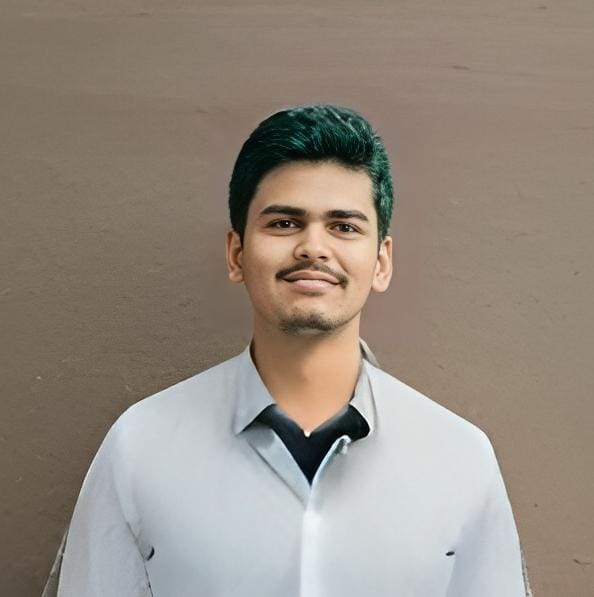
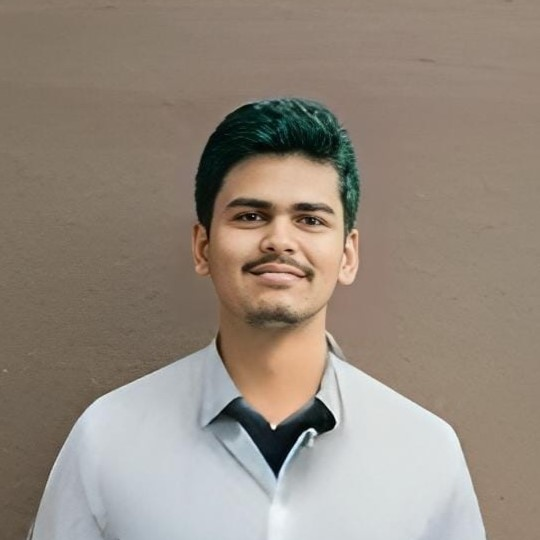
profile adjust

Changed region(s): [[0.0296, 0.1778, 0.8593, 1.0], [0.7407, 0.8593, 0.8296, 1.0], [0.8593, 0.8593, 0.9185, 1.0]]

diff --git a/index.html b/index.html
@@ -28,7 +28,7 @@
                 <div class="des">Passionate about crafting seamless user experiences and scalable solutions. Specializing in both front-end and back-end technologies. Let's make something awesome.</div>
                 <a class="btn" target="_blank" href="https://drive.usercontent.google.com/download?id=1ctUiHmi6mtVqoKAz64aUJSwTpMXj8zUP"><div>Download Resume</div></a>
             </div>
-            <div class="profile"><img draggable="false" src="https://media.licdn.com/dms/image/D5635AQEDJrHHg0jdsw/profile-framedphoto-shrink_200_200/0/1712475941028?e=1713081600&v=beta&t=hCcj3FaeqKm4Iscgs9OJ4F9PzG6e_cmgEWeXW069I9w"></div>
+            <div class="profile"><img draggable="false" src="assets/images/profile.jpg"></div>
         </div>
         <div class="box">
             <div class="sub_title">Skills</div>
